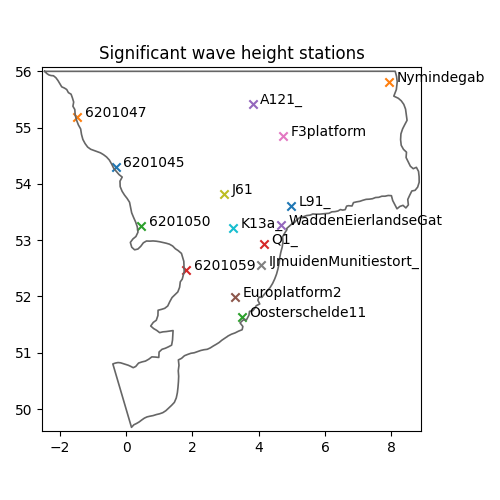
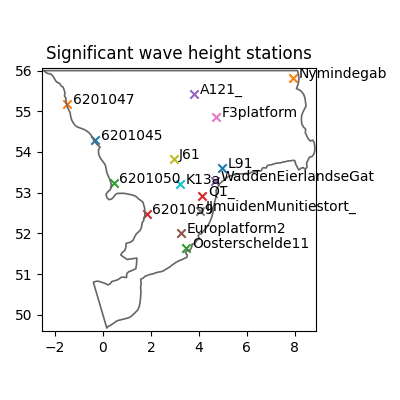
update figures for readme

Changed region(s): [[0.03, 0.09, 0.99, 0.9]]

diff --git a/README.md b/README.md
@@ -67,7 +67,7 @@ This repository includes
 
 The dataset covers the period 2022-01-01 to 2023-12-31. Since the simulation includes a spin-up period, it is recommended to discard the first two days of result data for analysis.
 
-## The MIKE 21 Spectral Wave Module
+## The MIKE 21 Spectral Wave Model
 
 MIKE 21 Flow Model FM is a modelling system based on a flexible mesh approach. The modelling system has been developed for applications within oceanographic, coastal and estuarine environments. The governing equation is the wave action balance equation formulated in either Cartesian or spherical coordinates. More information can be found [in the documentation](https://manuals.mikepoweredbydhi.help/latest/Coast_and_Sea/M21SW_Scientific_Doc.pdf).
 
@@ -77,9 +77,12 @@ The mesh consists of triangular elements, with higher resolution in areas of int
 
 A simulation can be performed with the [MIKE modelling software](https://www.dhigroup.com/technologies/mikepoweredbydhi), while supplying the following data for driving the model:
 
-- the water levels and current velocities on the North boundary
-- the water levels and current velocities on the South boundary
+- the spectral wave energy density on the North boundary
+- the spectral wave energy density on the South boundary
+- the water level and currents in the domain
 - wind velocities in the domain.
+
+This input data can be found in the [/input](/input) folder. Model parameters, e.g. bed resistance constant, can be calibrated by comparing the model simulations to observational data. 
 
 The model outputs are provided both as point timeseries (dfs0) and as time-varying full-domain results (dfsu) including the variables in the table below.
 
@@ -89,14 +92,12 @@ The model outputs are provided both as point timeseries (dfs0) and as time-varyi
 | 1 | Peak wave period | second |
 | 2 | Wave period, T02 | second |
 | 3 | Mean wave direction   | degree |
-| 4 | x-comp. of wave height vector | meter per sec |
-| 5 | y-comp. of wave height vector | meter per sec |
-| 6 | Wind speed | meter per sec |
-| 7 | Wind direction | degree |
 
-These results are provided as a separate file on [TODO: Zenodo link]()
+These results are provided as a separate file on [Zenodo](https://doi.org/10.5281/zenodo.17099654). After running a simulation, a log file is generated. For the benchmark simulation, this log file is available in the [/model](/model) folder and contains details on parameter settings and runtime.
 
 Running the MIKE software requires a license. Read more about [obtaining a license](https://www.dhigroup.com/technologies/mikepoweredbydhi/pricing) and about [academic licensing](https://www.dhigroup.com/technologies/mikepoweredbydhi/pricing/academic-licenses). If you already have a license, read the [step-by-step guide](https://manuals.mikepoweredbydhi.help/latest/Coast_and_Sea/MIKE_FM_HD_Step_By_Step.pdf) to learn how to run simulations.
+
+The input and output data are given as dfs files, which can be processed using the [MIKE IO](https://dhi.github.io/mikeio/) Python package developed by DHI. 
 
 ## Model validation
 
@@ -104,7 +105,7 @@ The [ModelSkill Python package](https://dhi.github.io/modelskill/) developed at 
 
 In this case, the model is validated using both in-situ measurements from stations in the Southern North Sea and satellite altimetry data. This validation is performed in the Jupyter notebooks located at `code/model_validation_*.ipynb`. The leftmost figure below shows the location of the measurement stations, while the rightmost figure shows the spatial coverage of the altimetry data.
 
-![](figures/stations.png)
+![](figures/swh_stations.png)
 ![](figures/altimetry_coverage.png)
 
 Below is an example comparison between observational data from a measurement station and the MIKE 21 simulation, followed by a comparison with satellite altimetry data. Many more similar plots can be found in the validation notebooks `code/model_validation_*.ipynb`.
@@ -113,6 +114,8 @@ Below is an example comparison between observational data from a measurement sta
 ![](figures/altimetry_comparison.png)
 
 ## Data sources
+
+- **Altimetry data**: Only data points marked as "good" by quality flags are included.
 
 
 ## Other stuff
